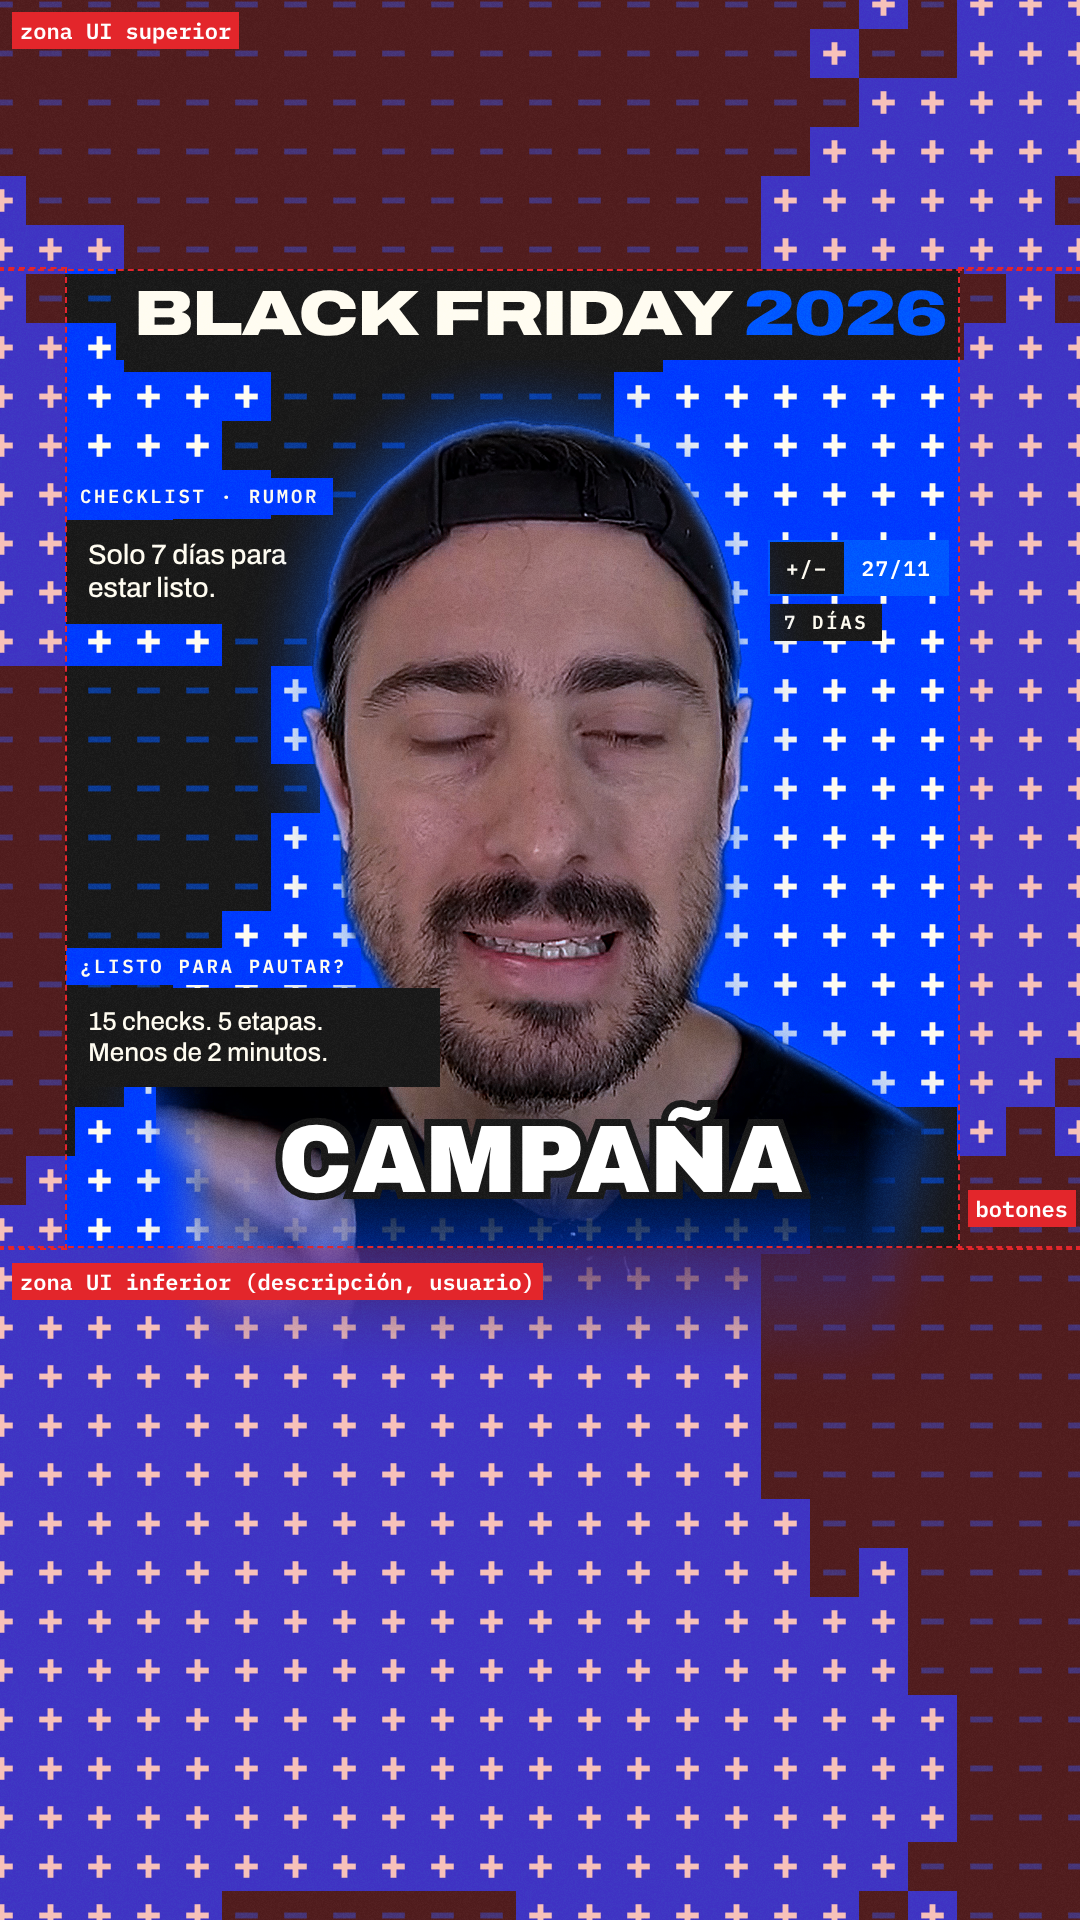
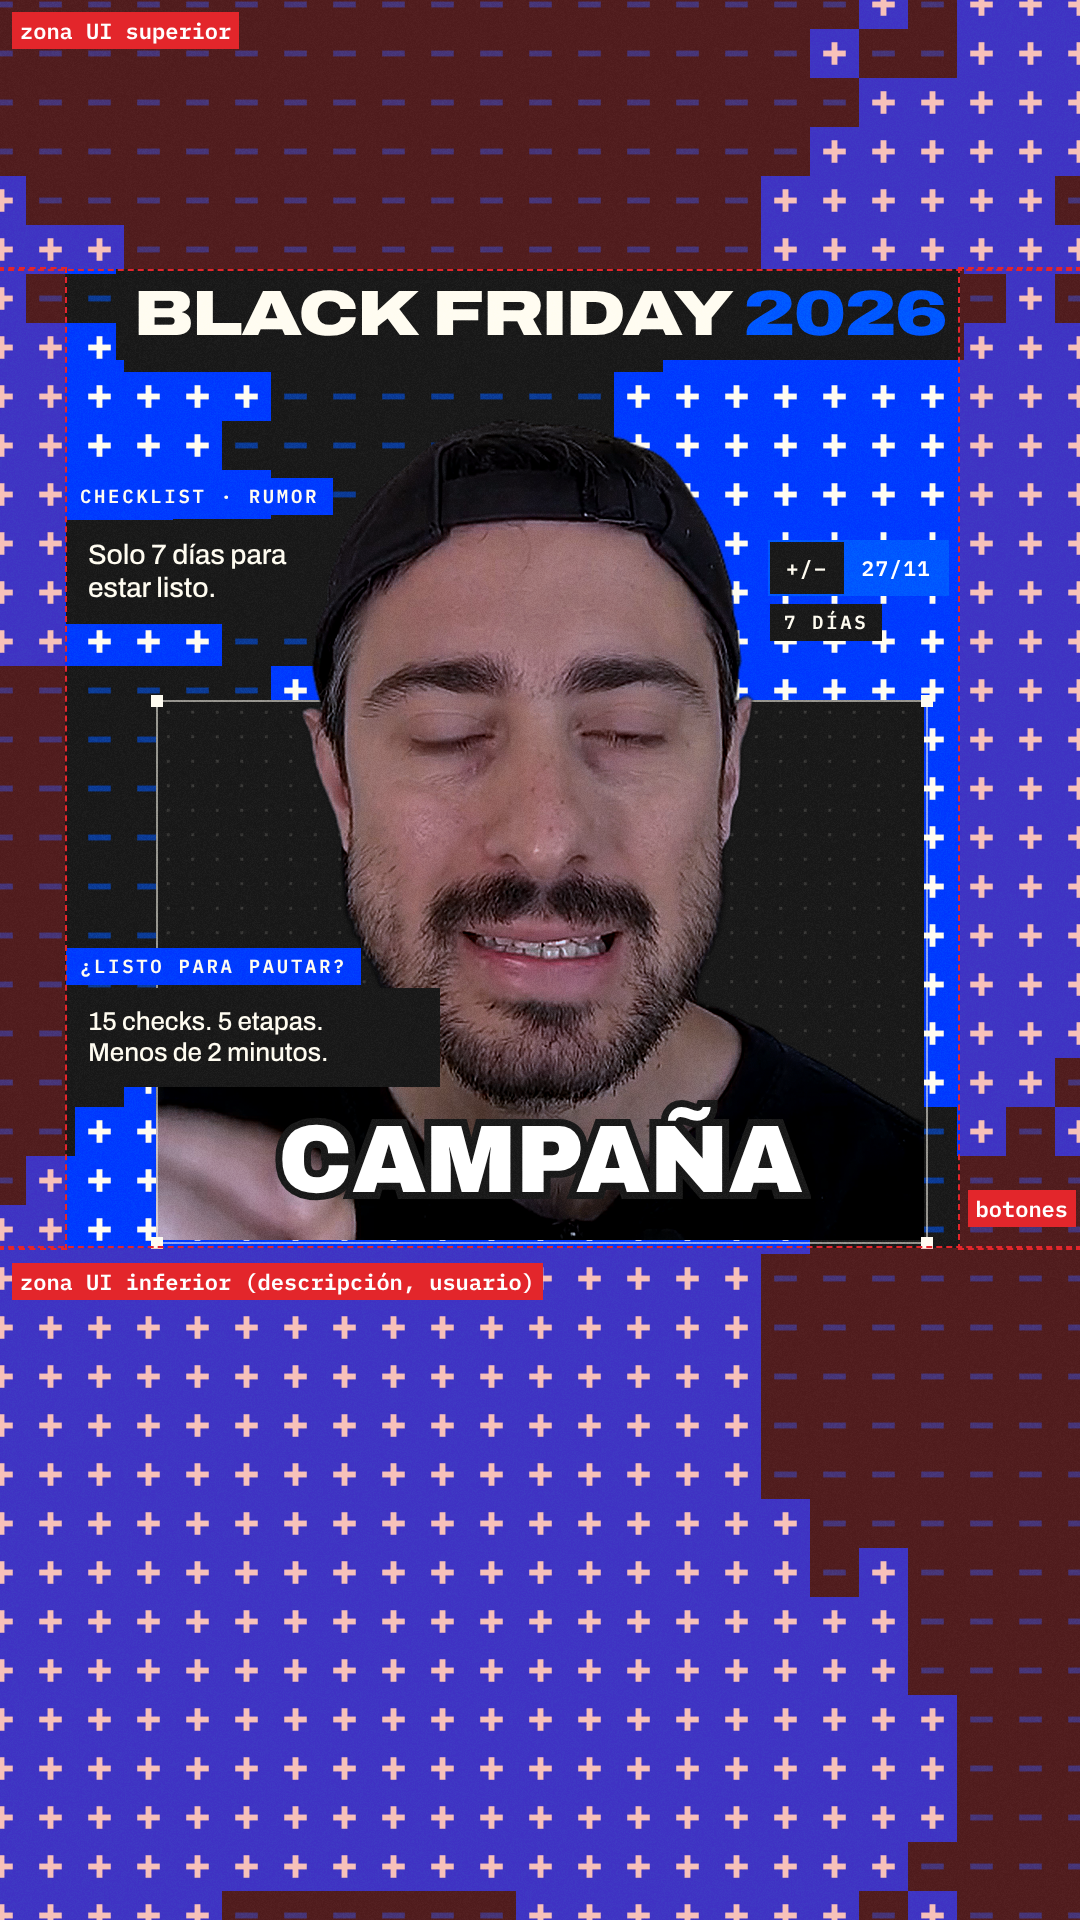
Reel BF: sujeto en marco tech, sin contorno azul
Claude-Session: https://claude.ai/code/session_012Fnto9jpQe32MrKx8Y2jJE

Changed region(s): [[0.1222, 0.1875, 0.8861, 0.7188]]

diff --git a/video/reel/prueba.html b/video/reel/prueba.html
@@ -28,7 +28,16 @@
   .seg i.on{background:var(--blue2);color:#fff}
 
   /* Sujeto */
-  #sujeto{position:absolute;left:156px;top:44px;width:768px;filter:drop-shadow(0 0 34px rgba(0,87,255,.55)) drop-shadow(0 0 2px rgba(0,87,255,.6))}
+  /* Marco del sujeto: corta el torso; la cabeza sale por arriba del marco */
+  .panel{position:absolute;left:156px;top:700px;width:768px;height:540px;background:var(--black);
+    background-image:radial-gradient(circle,rgba(255,252,241,.13) 1.4px,transparent 1.8px);background-size:24.5px 24.5px}
+  .frame{position:absolute;left:156px;top:700px;width:768px;height:540px;pointer-events:none;
+    border:2px solid rgba(255,252,241,.55);border-top-color:transparent}
+  .panel::before{content:"";position:absolute;left:0;right:0;top:0;border-top:2px solid rgba(255,252,241,.55)}
+  .frame i{position:absolute;width:12px;height:12px;background:var(--paper)}
+  .frame i:nth-child(1){left:-7px;top:-7px}.frame i:nth-child(2){right:-7px;top:-7px}
+  .frame i:nth-child(3){left:-7px;bottom:-7px}.frame i:nth-child(4){right:-7px;bottom:-7px}
+  #sujeto{position:absolute;left:156px;top:44px;width:768px;clip-path:inset(0 0 186px 0)}
 
   /* Subtítulo: una palabra, posición fija */
   .sub{position:absolute;left:0;right:0;top:1112px;text-align:center;font-family:"Archivo Black","Arial Black",Arial,sans-serif;font-size:96px;line-height:1;
@@ -53,7 +62,9 @@
   <div class="seg" style="left:770px;top:540px"><i>+/−</i><i class="on">27/11</i></div>
   <div class="tag k" style="left:770px;top:604px">7 días</div>
 
-  <img id="sujeto" src="prueba/sujeto.png" alt="">
+  <div class="panel"></div>
+  <img id="sujeto" src="prueba/sujeto-marco.png" alt="">
+  <div class="frame"><i></i><i></i><i></i><i></i></div>
 
   <!-- delante del sujeto (sobre el torso) -->
   <div class="tag" style="left:66px;top:948px">¿Listo para pautar?</div>

diff --git a/video/reel/tools/sujeto.py b/video/reel/tools/sujeto.py
@@ -1,10 +1,13 @@
 #!/usr/bin/env python3
 """Prepara la capa del sujeto para el reel: RGBA (recorte) -> escala, color, luz de borde, enfoque, fundido.
-Uso: python3 sujeto.py entrada_rgba.png salida.png [--scale 1.6]"""
+Uso: python3 sujeto.py entrada_rgba.png salida.png [--scale 1.6] [--fade 0|1] [--extend PX] [--rim 0..1]
+  --fade 0     sin fundido inferior (cuando el cuerpo lo corta un marco o el borde del cuadro)
+  --extend PX  prolonga el torso (remera negra) PX píxeles hacia abajo"""
 import sys, numpy as np
 from PIL import Image, ImageFilter
 
-SCALE = float(sys.argv[sys.argv.index('--scale') + 1]) if '--scale' in sys.argv else 1.6
+arg = lambda k, d: type(d)(sys.argv[sys.argv.index(k) + 1]) if k in sys.argv else d
+SCALE = arg('--scale', 1.6); FADE = arg('--fade', 1); EXTEND = arg('--extend', 0); RIM = arg('--rim', 0.0)
 BLUE2 = np.array([0x00, 0x57, 0xFF], np.float32) / 255
 
 def procesar(img):
@@ -31,8 +34,8 @@ def procesar(img):
     am = Image.fromarray((a * 255).astype(np.uint8))
     er = np.asarray(am.filter(ImageFilter.MinFilter(9)).filter(ImageFilter.GaussianBlur(5)), np.float32) / 255
     rim = np.clip(a - er, 0, 1)[..., None]
-    x = 1 - (1 - x) * (1 - rim * BLUE2 * 0.9)       # screen azul en el borde
-    x = x + rim * 0.06
+    x = 1 - (1 - x) * (1 - rim * BLUE2 * 0.9 * RIM)  # screen azul en el borde (apagado por defecto)
+    x = x + rim * 0.06 * RIM
 
     # --- fundido: torso hacia abajo y costados (remera negra -> fondo oscuro)
     ys = np.linspace(0, 1, H, dtype=np.float32)[:, None]
@@ -41,7 +44,10 @@ def procesar(img):
     fx = fx * np.clip((ys - 0.72) / 0.1, 0, 1) + (1 - np.clip((ys - 0.72) / 0.1, 0, 1))  # costados solo en el torso
     fade = fy * np.maximum(fx, 0)
     fade = fade * fade * (3 - 2 * fade)
-    a = a * fade
+    if FADE: a = a * fade
+    if EXTEND:
+        x = np.concatenate([x, np.repeat(x[-1:], EXTEND, 0) * np.linspace(1, .6, EXTEND, dtype=np.float32)[:, None, None]], 0)
+        a = np.concatenate([a, np.repeat(a[-1:], EXTEND, 0)], 0)
 
     out = np.dstack([np.clip(x, 0, 1) * 255, a * 255]).astype(np.uint8)
     return Image.fromarray(out, 'RGBA')
